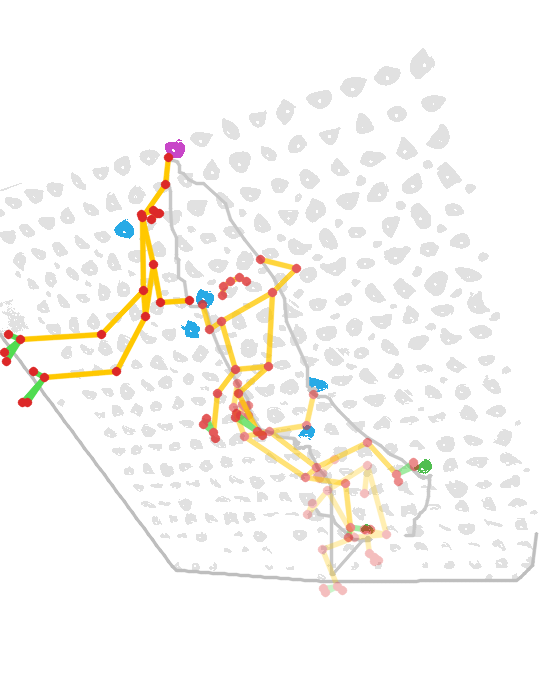
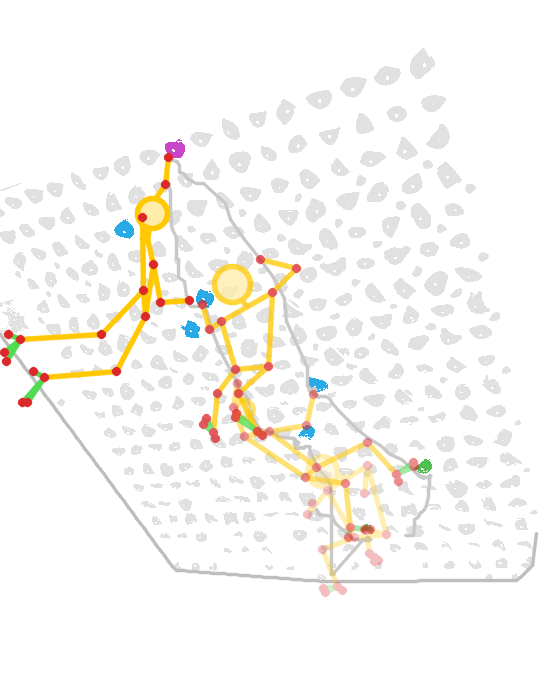
Stick figures: a round head and neck

diff --git a/skeleton_figure.py b/skeleton_figure.py
@@ -18,10 +18,11 @@ SCALE = 0.5
 KPT = 0.3
 SMOOTH = 15                 # frames in the running median of the hand paths
 POSES = 4                   # skeletons in the still image
-BODY = [(5, 7), (7, 9), (6, 8), (8, 10), (5, 6), (5, 11), (6, 12), (11, 12), (11, 13), (13, 15), (12, 14), (14, 16),
-        (0, 1), (0, 2), (1, 3), (2, 4)]
+BODY = [(5, 7), (7, 9), (6, 8), (8, 10), (5, 6), (5, 11), (6, 12), (11, 12), (11, 13), (13, 15), (12, 14), (14, 16)]
+FACE = range(5)             # nose, eyes, ears: drawn as one head
 FEET = [(15, 17), (15, 18), (15, 19), (16, 20), (16, 21), (16, 22)]   # whole-body pose only (points 17-22)
 BONE, FOOT, JOINT = (0, 200, 255), (80, 220, 80), (40, 40, 220)       # BGR, as in the DeepX preview video
+HEAD_FILL = (170, 235, 255)
 ROLE = {"start": (80, 190, 80), "hand": (230, 170, 40), "finish": (200, 70, 200), "foot": (40, 140, 240)}
 
 
@@ -63,14 +64,32 @@ def base(map_dir):
     return img, (y0, y1)
 
 
+def head(img, k, p):
+    """A filled circle over the visible face points, sized from the shoulders, with a neck to the shoulders."""
+    face = [i for i in FACE if k[i, 2] > KPT]
+    if not face:
+        return
+    c = p[face].mean(0)
+    shoulders = k[5, 2] > KPT and k[6, 2] > KPT
+    r = int(max(9, 0.32 * np.linalg.norm(p[5] - p[6]) if shoulders else 0, 0.7 * np.ptp(p[face], 0).max()))
+    if shoulders:
+        neck = (p[5] + p[6]) / 2
+        d = neck - c
+        start = c + d / max(np.linalg.norm(d), 1) * r       # from the head's edge, not its centre
+        cv2.line(img, tuple(start.astype(int)), tuple(neck.astype(int)), BONE, 3, cv2.LINE_AA)
+    cv2.circle(img, tuple(c.astype(int)), r, HEAD_FILL, -1, cv2.LINE_AA)
+    cv2.circle(img, tuple(c.astype(int)), r, BONE, 3, cv2.LINE_AA)
+
+
 def skeleton(img, k):
-    """Bones amber, feet green, joints red: the DeepX preview's look."""
+    """Bones amber, feet green, joints red: the DeepX preview's look, with the face as a round head."""
     p = (k[:, :2] * SCALE).astype(int)
     for links, colour in ((BODY, BONE), (FEET, FOOT)):
         for i, j in links:
             if j < len(k) and k[i, 2] > KPT and k[j, 2] > KPT:
                 cv2.line(img, tuple(p[i]), tuple(p[j]), colour, 3, cv2.LINE_AA)
-    for i in range(len(k)):
+    head(img, k, p)
+    for i in range(5, len(k)):
         if k[i, 2] > KPT:
             cv2.circle(img, tuple(p[i]), 4, JOINT, -1, cv2.LINE_AA)
 
